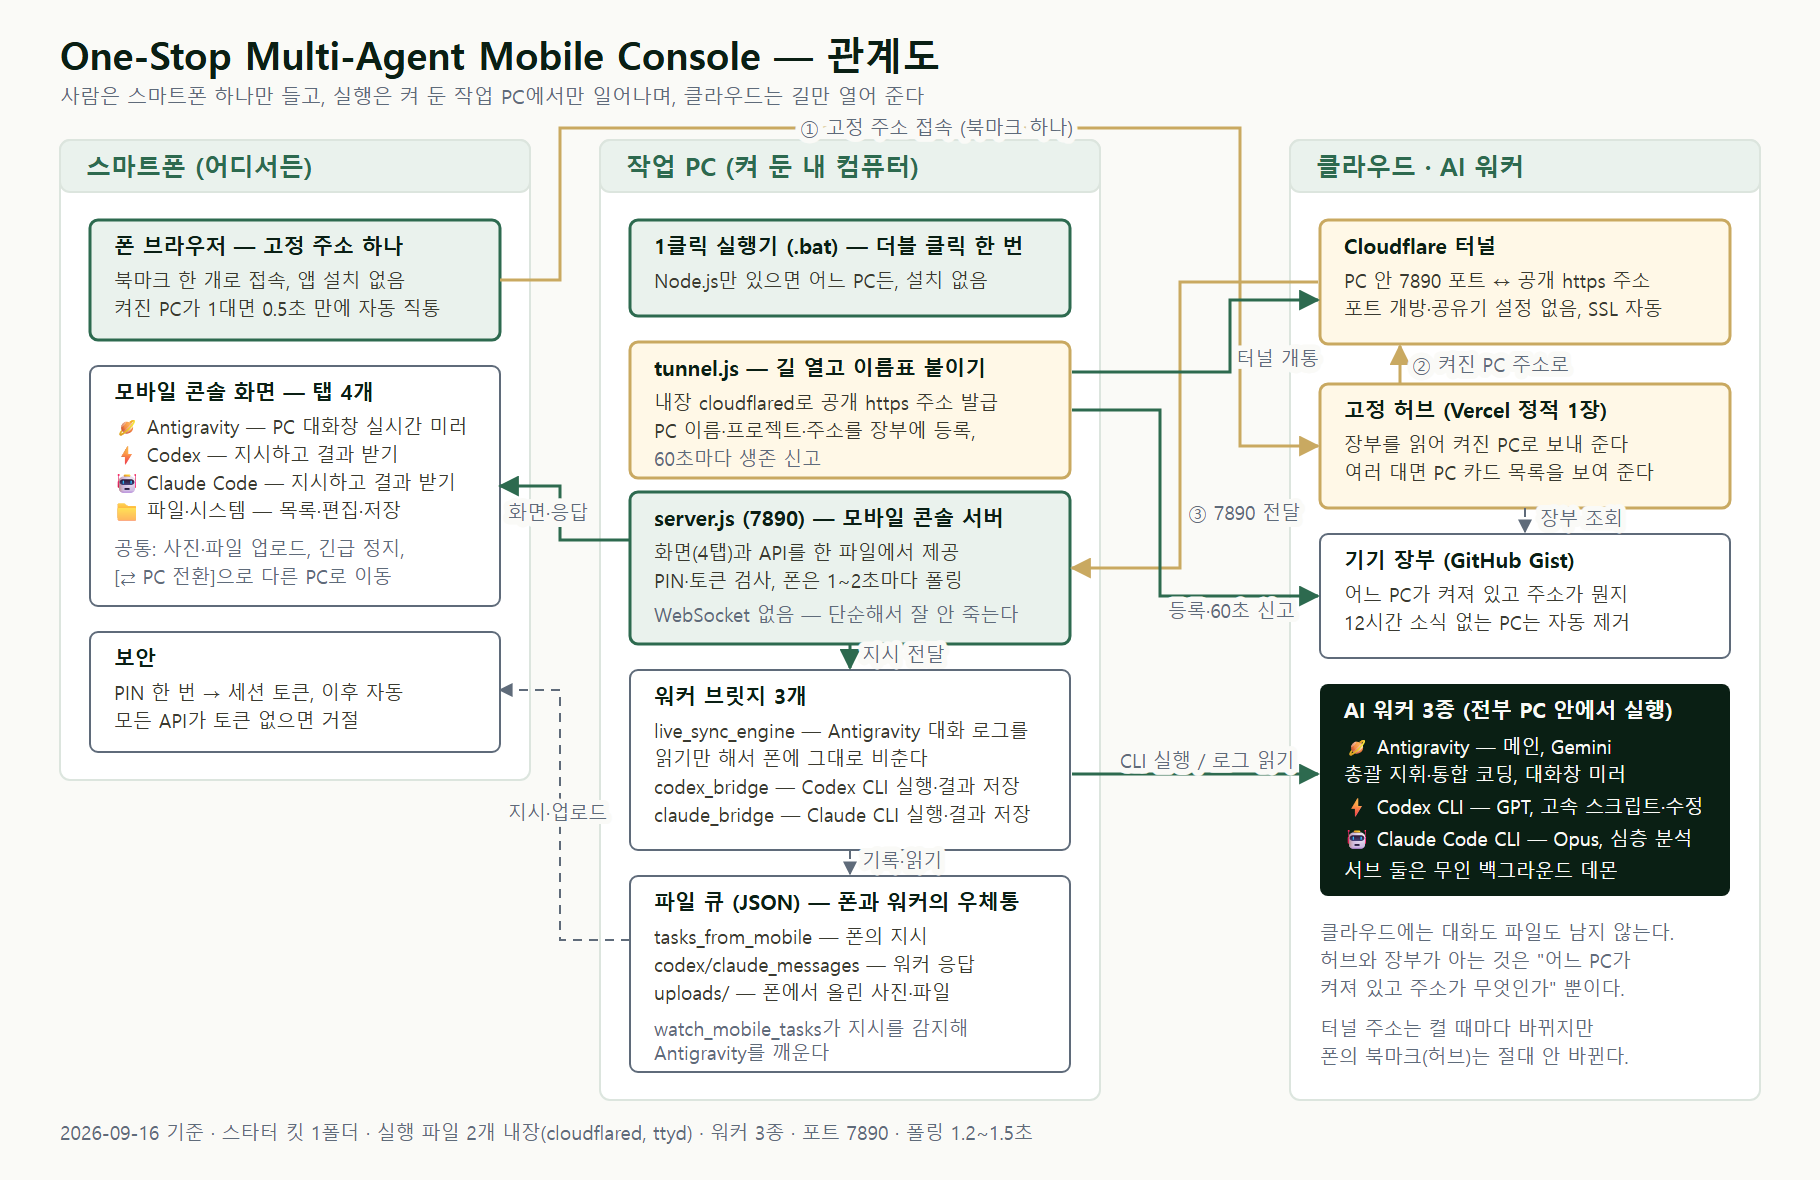
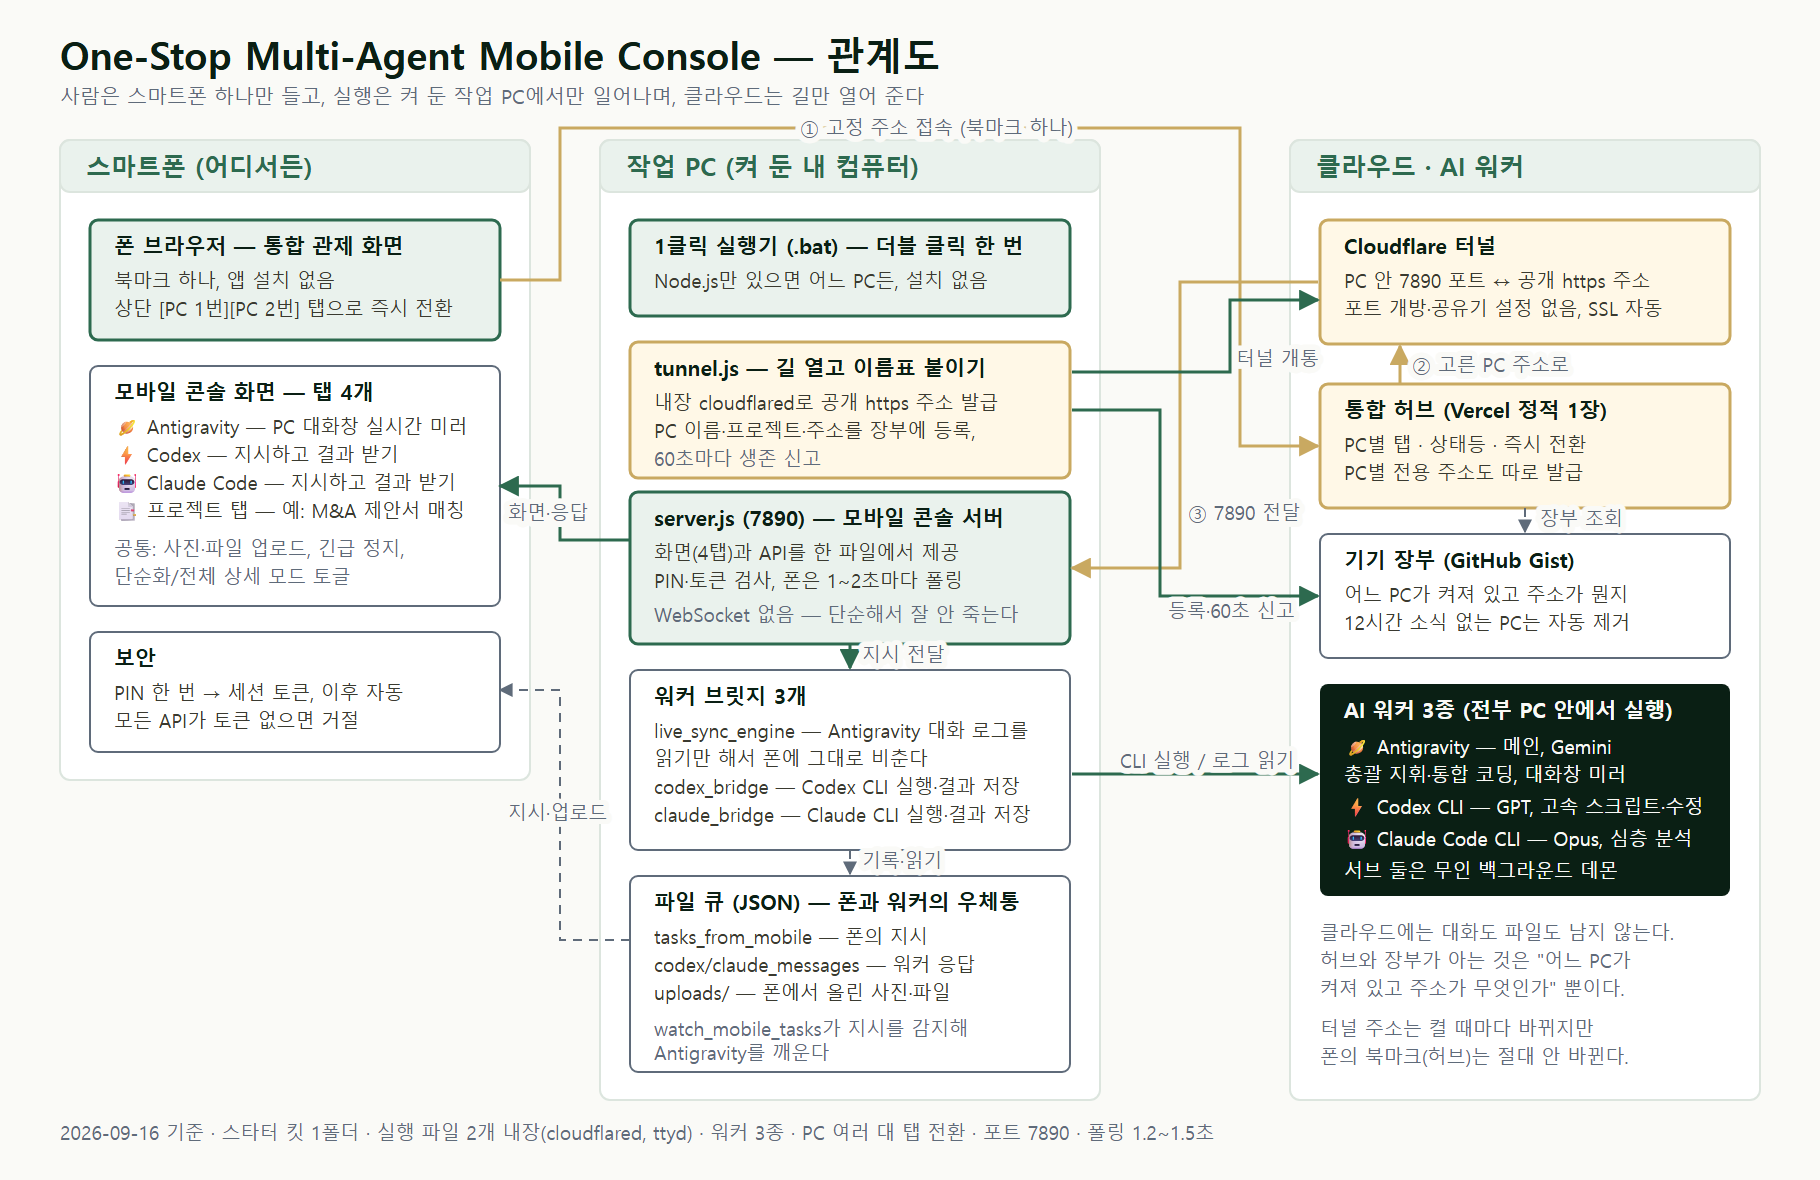
docs: 멀티 PC 탭 전환·프로젝트 탭 반영 (허브 = 듀얼 PC 통합 관제)
Claude-Session: https://claude.ai/code/session_01B9whsDDmwpfLVhUvx5sgwz

diff --git a/index.html b/index.html
@@ -4,7 +4,7 @@
 <meta charset="utf-8">
 <meta name="viewport" content="width=device-width, initial-scale=1">
 <title>One-Stop Multi-Agent Mobile Console — 폰 하나로 내 PC의 AI 워커 3종을 지휘한다</title>
-<meta name="description" content="어떤 PC에서든 더블 클릭 한 번으로 스마트폰과 AI 워커 3종(Antigravity·Codex·Claude Code)을 연결하는 무설치 포터블 스타터 킷. 폰은 북마크 하나, PC는 켜 두기만. 클라우드에는 대화도 파일도 남지 않는다.">
+<meta name="description" content="어떤 PC에서든 더블 클릭 한 번으로 스마트폰과 AI 워커 3종(Antigravity·Codex·Claude Code)을 연결하는 무설치 포터블 스타터 킷. 폰은 북마크 하나, PC는 켜 두기만, 여러 대면 탭으로 전환. 클라우드에는 대화도 파일도 남지 않는다.">
 <meta property="og:title" content="One-Stop Multi-Agent Mobile Console">
 <meta property="og:description" content="폰 하나로, 내 PC의 AI 워커 3종을 지휘한다. 무설치 포터블 스타터 킷.">
 <meta property="og:type" content="website">
@@ -127,7 +127,7 @@
   <div>
     <div class="eyebrow">무설치 포터블 · 내 PC에서 구동 · 클라우드에 데이터 없음</div>
     <h1>폰 하나로,<br><em>내 PC의 AI 워커 3종</em>을<br>지휘한다</h1>
-    <p class="lede">어떤 PC에서든 더블 클릭 한 번으로 스마트폰과 AI 워커 3종을 연결하는 스타터 킷. 폰은 북마크 하나, PC는 켜 두기만. 지시는 폰에서 하고, 실행과 파일은 전부 PC 안에서 일어난다.</p>
+    <p class="lede">어떤 PC에서든 더블 클릭 한 번으로 스마트폰과 AI 워커 3종을 연결하는 스타터 킷. 폰은 북마크 하나, PC는 켜 두기만. PC가 여러 대면 폰 화면 상단 탭으로 번갈아 지휘한다. 지시는 폰에서, 실행과 파일은 전부 PC 안에서.</p>
     <div class="cta">
       <a class="btn btn-primary" href="#how">작동 방식 보기</a>
       <a class="btn btn-ghost" href="https://github.com/SUNWOONGKYU/one-stop-multi-agent-mobile-console" target="_blank" rel="noopener">GitHub 저장소</a>
@@ -174,7 +174,7 @@
   <p class="sub">스타터 킷 폴더를 더블 클릭하면 PC가 스스로 길을 열고 이름표를 붙입니다. 폰은 늘 같은 주소를 열기만 하면 됩니다.</p>
   <div class="steps">
     <div class="step"><h3>PC에서 더블 클릭</h3><p>실행기가 콘솔 서버를 띄우고, 내장 cloudflared로 공개 https 주소를 받아 기기 장부에 등록합니다. 60초마다 생존 신고.</p></div>
-    <div class="step"><h3>폰에서 북마크 열기</h3><p>고정 허브가 장부를 읽어 켜진 PC로 보내 줍니다. 1대면 0.5초 자동 직통, 여러 대면 PC 카드를 골라 터치.</p></div>
+    <div class="step"><h3>폰에서 북마크 열기</h3><p>통합 허브가 켜진 PC마다 탭을 띄웁니다. [PC 1번] [PC 2번] 탭을 터치 한 번으로 오가며 여러 컴퓨터를 한 화면에서 지휘합니다. PC별 전용 주소도 있습니다.</p></div>
     <div class="step"><h3>지시하고 결과 받기</h3><p>탭을 고르고 지시. Antigravity는 PC 대화창이 그대로 비치고, Codex·Claude는 CLI가 돌아 결과를 돌려줍니다. 긴급 정지는 언제나.</p></div>
   </div>
   <figure class="fig" style="margin:34px 0 0">
@@ -200,7 +200,7 @@
       <tr><td>워커 브릿지 3개</td><td><code>live_sync_engine</code>은 Antigravity 대화 로그를 읽기만 해서 비추고, <code>codex_bridge</code>·<code>claude_bridge</code>는 CLI를 실행해 결과를 저장.</td><td>작업 PC</td></tr>
       <tr><td>파일 큐 (JSON)</td><td>폰의 지시, 워커 응답, 업로드 파일이 오가는 우체통. <code>watch_mobile_tasks</code>가 지시를 감지해 Antigravity를 깨운다.</td><td>작업 PC</td></tr>
       <tr><td>Cloudflare 터널</td><td>PC 안 7890 포트 ↔ 공개 https. 포트 개방·공유기 설정 없음, SSL 자동.</td><td>클라우드</td></tr>
-      <tr><td>고정 허브</td><td>정적 페이지 1장. 장부를 읽어 켜진 PC로 보내거나 PC 카드 목록을 보여 준다. 폰 북마크는 이 주소 하나.</td><td>클라우드</td></tr>
+      <tr><td>통합 허브</td><td>정적 페이지 1장. 장부를 읽어 켜진 PC마다 탭을 띄우고(상태등 🟢), 탭 터치로 PC 간 즉시 전환. PC별 전용 주소도 발급. 폰 북마크는 이 주소 하나.</td><td>클라우드</td></tr>
       <tr><td>기기 장부</td><td>어느 PC가 켜져 있고 주소가 무엇인지. 12시간 소식 없는 PC는 자동 제거.</td><td>클라우드</td></tr>
     </tbody>
   </table></div>
@@ -224,9 +224,9 @@
     <div class="card"><h3>🪐 Antigravity</h3><p>대화창 미러 + 지시 입력. 3줄 요약·한 줄 결론·계속 진행 칩.</p></div>
     <div class="card"><h3>⚡ Codex</h3><p>지시 → 실행 → 결과. 상태 라벨(작업 중/대기)과 전체 히스토리.</p></div>
     <div class="card"><h3>🤖 Claude Code</h3><p>Codex와 같은 레이아웃. 사진·파일 업로드 후 분석 지시.</p></div>
-    <div class="card"><h3>📁 파일·시스템</h3><p>호스트·가동시간·RAM, 파일 목록·검색·편집·저장. 작업 폴더 밖은 차단.</p></div>
+    <div class="card"><h3>📑 프로젝트 탭</h3><p>프로젝트 전용 화면(예: M&amp;A 제안서 배포·매칭). 파일 API는 작업 폴더 밖을 차단.</p></div>
   </div>
-  <p class="cta-note" style="margin-top:18px">공통 — 사진·파일 업로드, <b>긴급 정지</b>(실행 중인 워커 프로세스 트리를 즉시 종료), 상단 <b>[⇄ PC 전환]</b>으로 다른 PC로 이동.</p>
+  <p class="cta-note" style="margin-top:18px">공통 — 사진·파일 업로드, <b>긴급 정지</b>(실행 중인 워커 프로세스 트리를 즉시 종료), 단순화/전체 상세 모드 토글, 허브 상단 <b>PC 탭</b>으로 다른 컴퓨터로 즉시 이동.</p>
 </div></section>
 
 <section><div class="wrap">
@@ -236,7 +236,7 @@
     <div class="card"><div class="ic">🔑</div><h3>PIN 한 번, 이후 토큰</h3><p>첫 접속에 PIN을 넣으면 세션 토큰이 발급되고 모든 API 호출에 자동으로 붙는다. 토큰 없는 요청은 전부 거절.</p></div>
     <div class="card"><div class="ic">☁</div><h3>클라우드에는 주소만</h3><p>허브와 장부는 "어느 PC가 켜져 있고 주소가 무엇인가"만 안다. 대화·파일·결과물은 PC 밖으로 나가지 않는다.</p></div>
     <div class="card"><div class="ic">🔁</div><h3>WebSocket 없이 폴링</h3><p>1.2~1.5초 폴링과 JSON 파일 큐. 부품이 적어 끊겨도 스스로 돌아온다.</p></div>
-    <div class="card"><div class="ic">📦</div><h3>폴더 하나가 전부</h3><p>cloudflared·ttyd 실행 파일 내장. 폴더를 복사해 어느 PC, 어느 프로젝트에 붙여도 그대로 동작.</p></div>
+    <div class="card"><div class="ic">📦</div><h3>폴더 하나가 전부, PC는 몇 대든</h3><p>cloudflared·ttyd 실행 파일 내장. 폴더를 복사해 어느 PC에 붙여도 그대로 동작하고, 켜진 PC마다 허브에 탭이 하나씩 생긴다.</p></div>
   </div>
 </div></section>
 

diff --git a/README.md b/README.md
@@ -12,9 +12,9 @@
 | 필요한 것 | Node.js가 깔린 Windows PC 1대, 스마트폰 브라우저 |
 | 설치 | 없음 — 폴더 하나(cloudflared · ttyd 실행 파일 내장) |
 | 네트워크 설정 | 없음 — 포트 개방·공유기·VPN 불필요 (Cloudflare 터널) |
-| 폰 접속 | 고정 허브 주소 1개 북마크 → 켜진 PC로 자동 연결 (여러 대면 카드 선택) |
+| 폰 접속 | 통합 허브 주소 1개 북마크 → 켜진 PC마다 탭(상태등) → 탭 터치로 PC 간 즉시 전환. PC별 전용 주소도 있음 |
 | 워커 | 🪐 Antigravity(메인, 대화창 실시간 미러) · ⚡ Codex CLI · 🤖 Claude Code CLI (서브, 무인 데몬) |
-| 콘솔 탭 | Antigravity / Codex / Claude Code / 파일·시스템 + 업로드 · 긴급 정지 · PC 전환 |
+| 콘솔 탭 | Antigravity / Codex / Claude Code / 프로젝트 탭 + 업로드 · 긴급 정지 · 단순화/상세 모드 |
 | 데이터 | 클라우드에는 "어느 PC가 켜져 있고 주소가 무엇인가"만. 대화·파일·결과물은 PC 밖으로 안 나감 |
 
 ## 도해
@@ -32,7 +32,7 @@
 
 **B. 접속 — 폰에서 한 번**
 5. 고정 허브 주소(북마크) 열기
-6. 허브가 장부를 읽어 켜진 PC 1대면 0.5초 뒤 자동 이동, 여러 대면 PC 카드 선택
+6. 통합 허브가 장부를 읽어 켜진 PC마다 탭을 띄움 — 탭 터치로 PC 선택·전환 (PC별 전용 주소로 바로 열 수도 있음)
 7. 터널 → `server.js` → 4탭 콘솔 화면. PIN 1회 → 세션 토큰, 이후 자동
 
 **C. 지시 · 실행 · 회신 — 반복**
@@ -46,7 +46,7 @@
 
 ```
 📁 원스톱_멀티에이전트_모바일콘솔_스타터킷/
-├── 1클릭_모바일콘솔_실행.bat   # 실행기 — 더블 클릭 한 번
+├── 1클릭_모바일콘솔_실행.bat   # 실행기 — 더블 클릭 한 번 (PC별 실행 bat · 올인원 start_all.js 포함)
 ├── server.js                  # 모바일 콘솔 풀스택 서버 (4탭 UI + API, 7890)
 ├── tunnel.js                  # 터널 개통 + 기기 장부 등록 + 60초 하트비트
 ├── live_sync_engine.js        # Antigravity 대화 로그 → 폰 미러 (읽기 전용)
